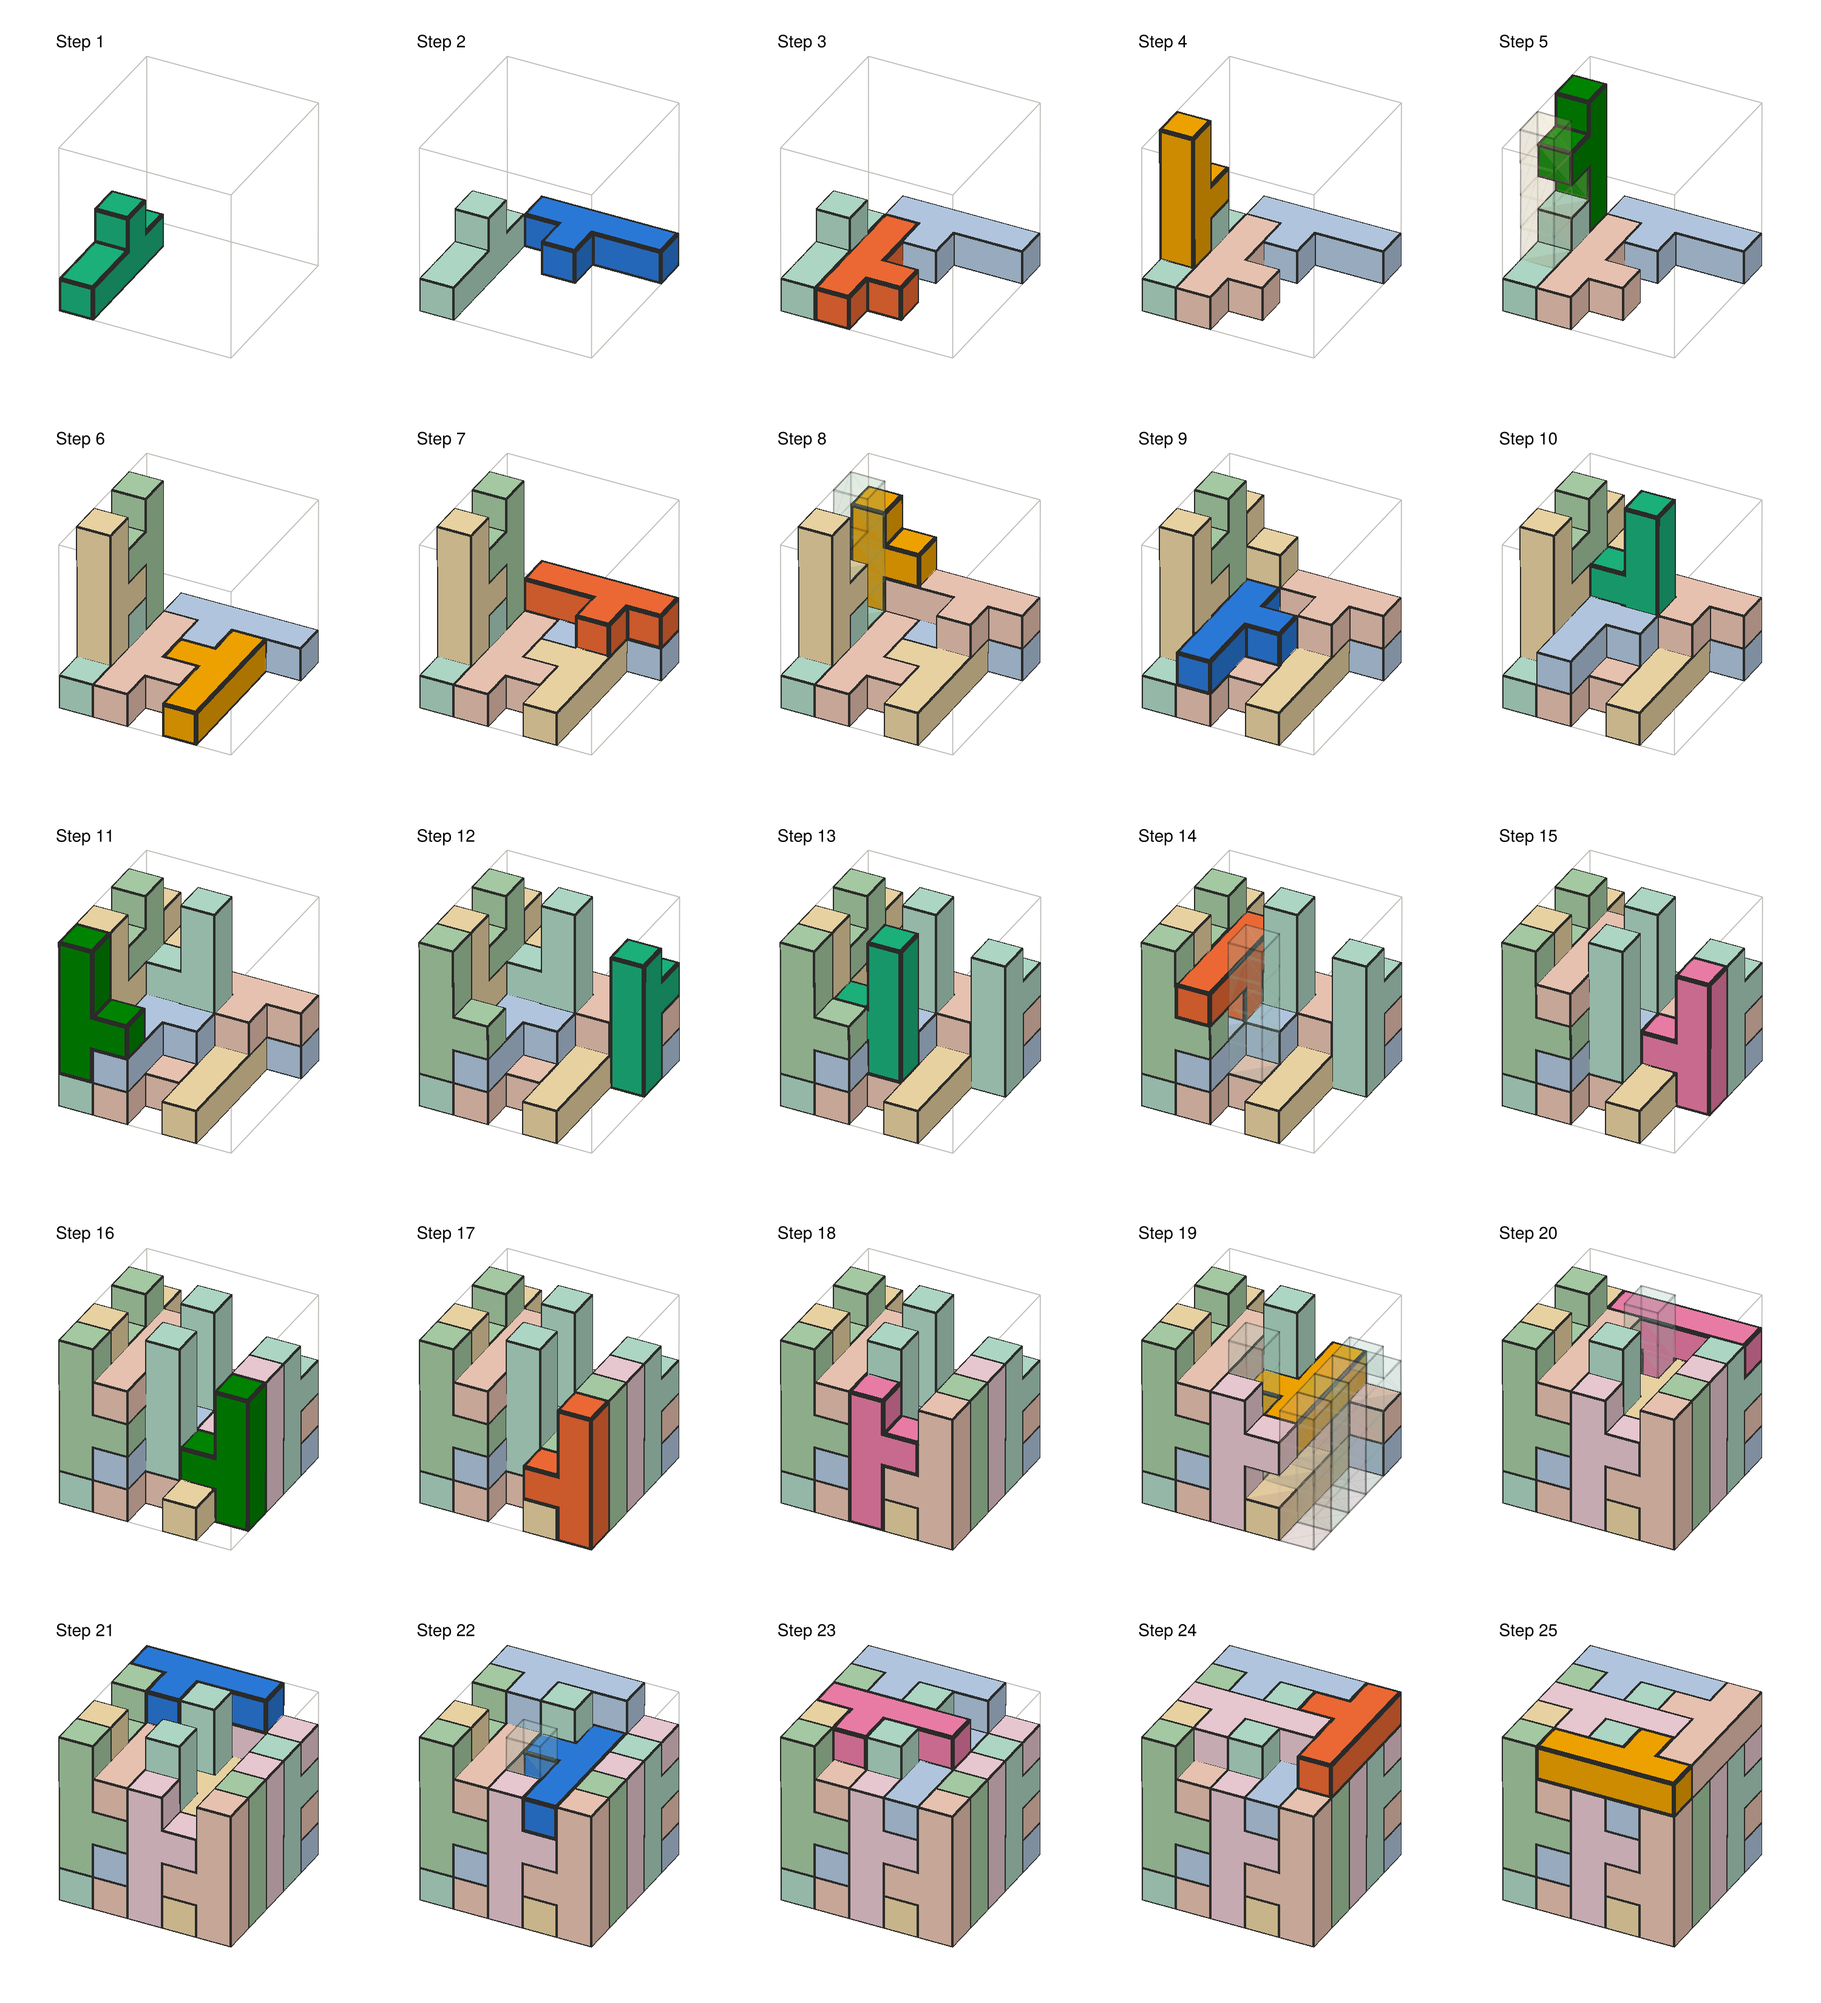
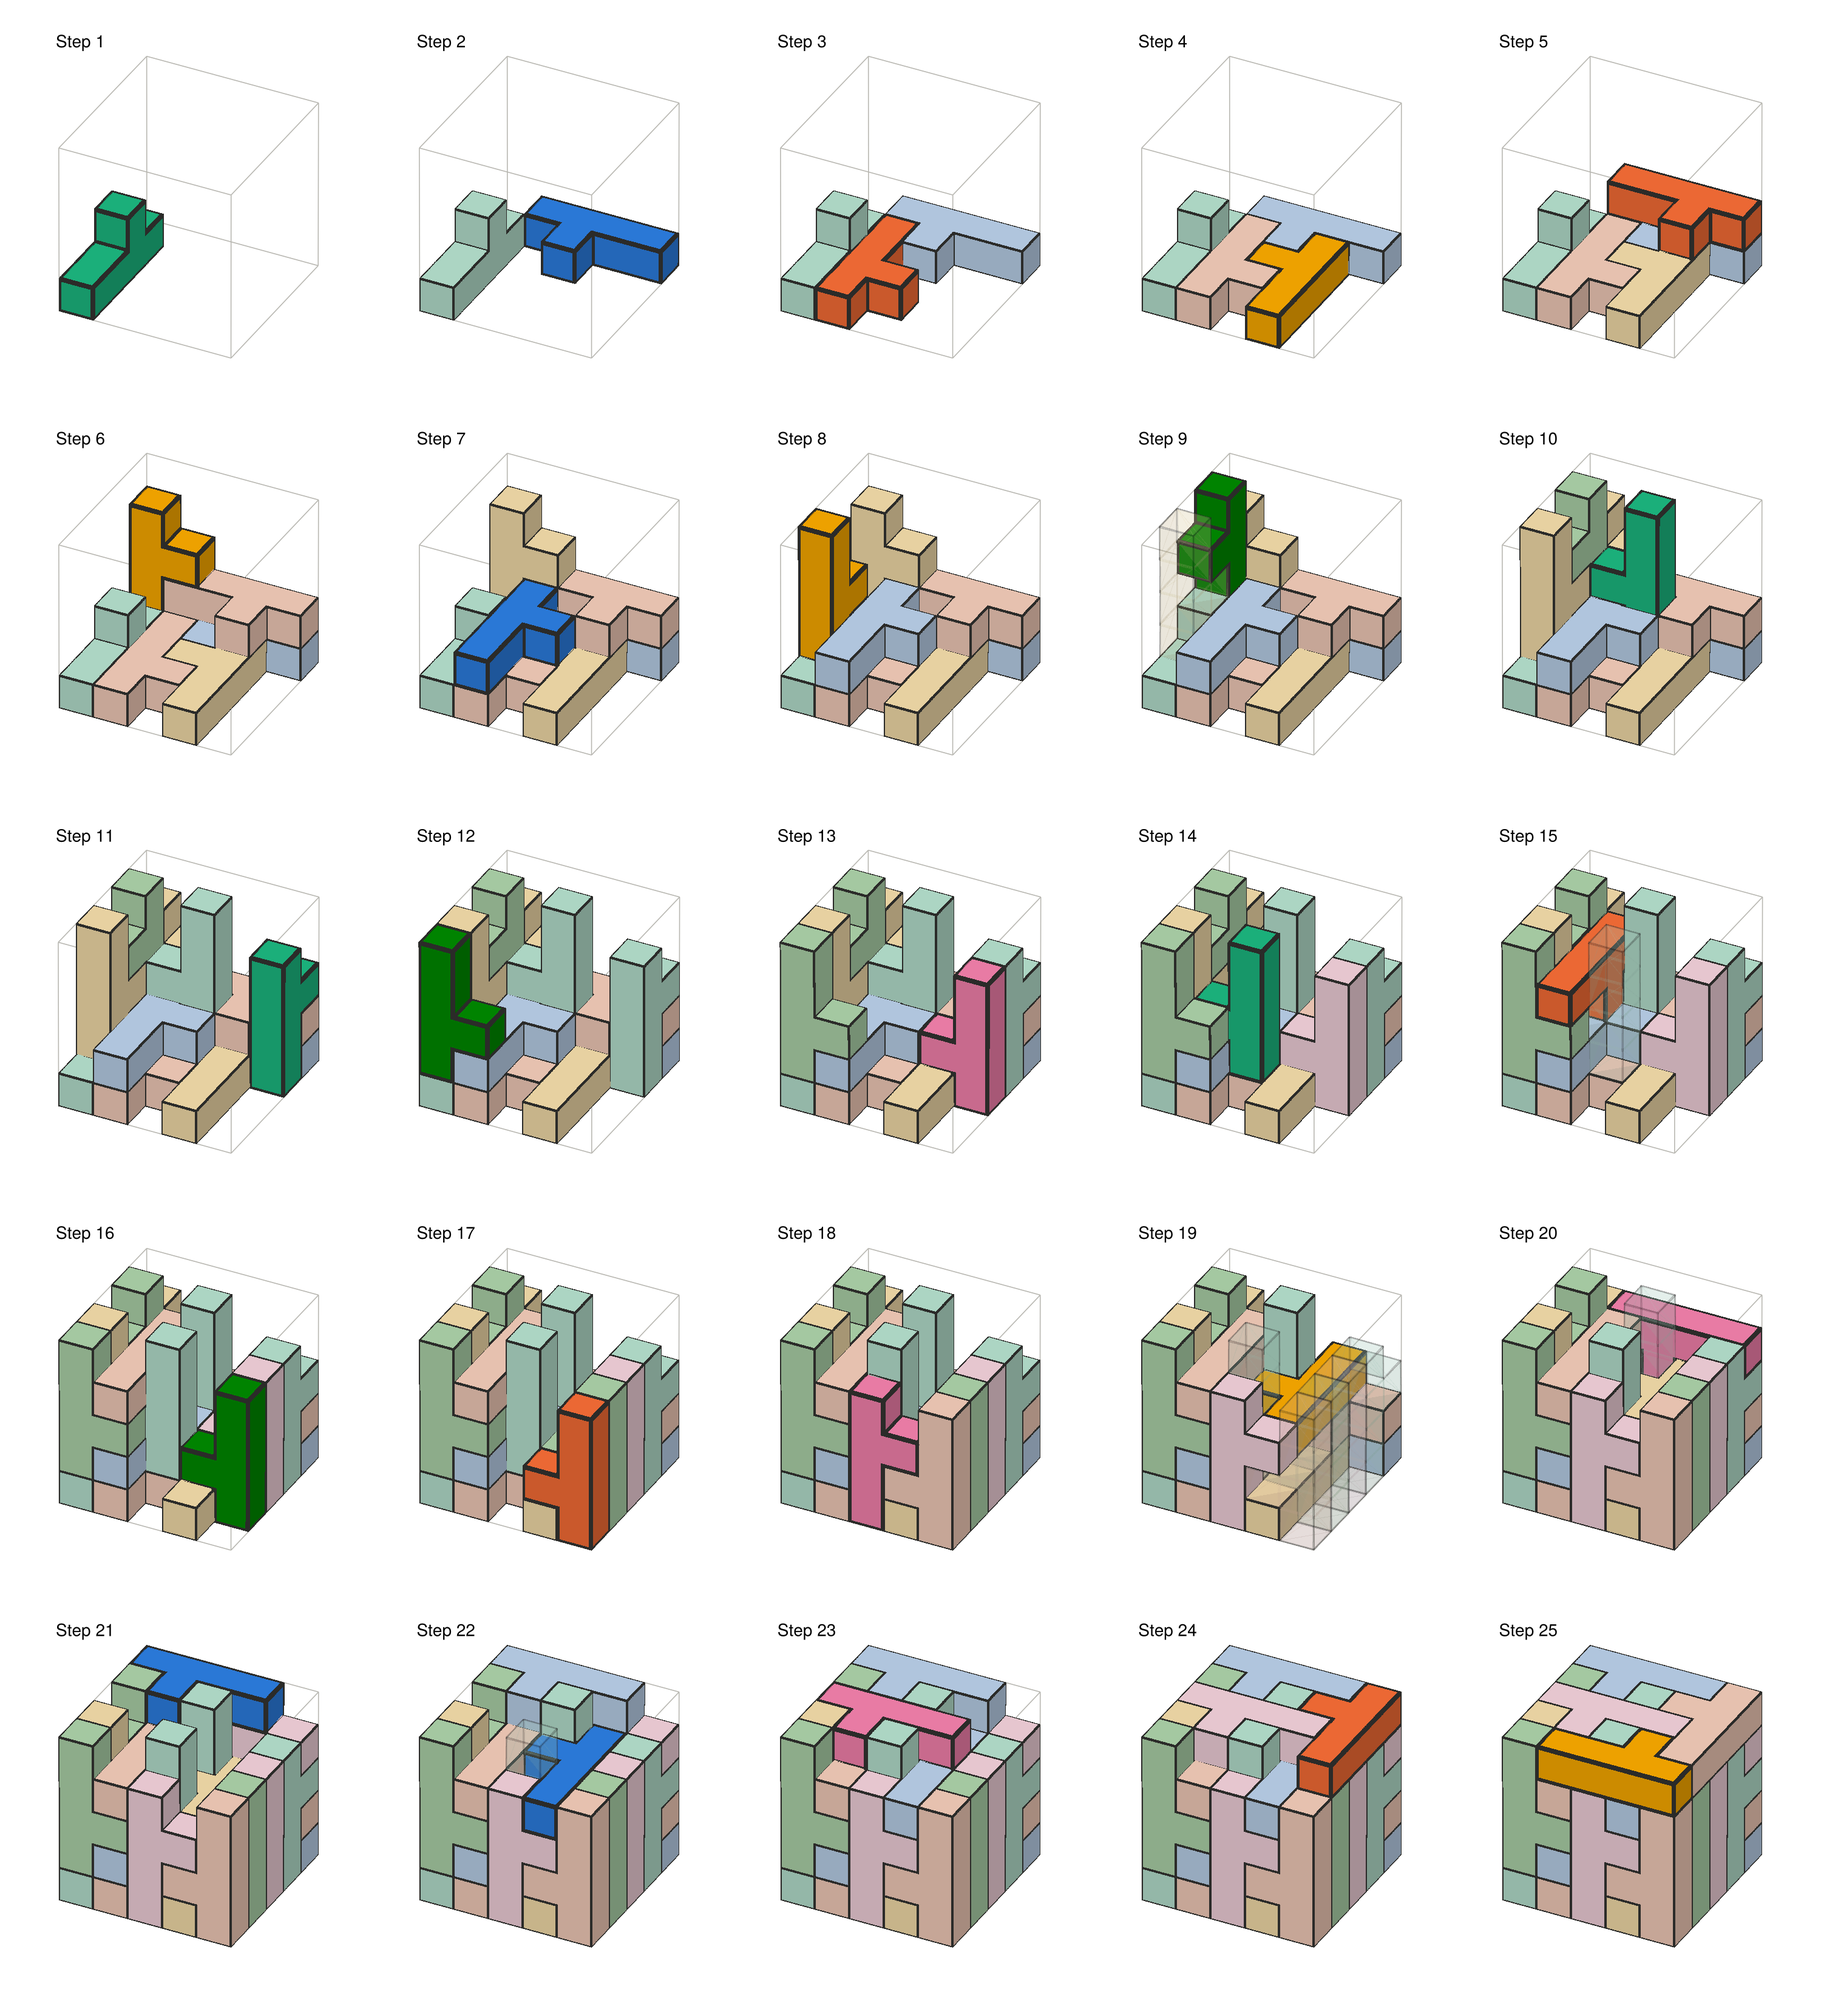
Turn reflections off by default; fill lower back layers before towers
Pieces are no longer mirrored unless reflections = true, in any
dimension. For viewer-ordered assembly, a piece's lowest level now
counts against its back/left position (weight 0.6, tuned on 5x5x5
Y-pentacube solutions: fewer hidden steps than before and low back
pieces ahead of towers).

diff --git a/README.md b/README.md
@@ -72,8 +72,9 @@ Puzzle(target, [pieceA => 1, pieceB => 3, pieceC => 0:2]; reflections = false)
 
 A count is exact (`3`) or a range (`0:2`, for spare pieces). Copies of a piece
 are indistinguishable, so permuting them never yields a "new" solution.
-`reflections` says whether pieces may be mirrored; it defaults to `true` in 2D
-(a tile can be turned over) and `false` otherwise.
+`reflections` says whether pieces may be mirrored. It is off by default; turn
+it on for flat tiles that may be turned over, e.g. the classic pentomino
+puzzles: `Puzzle(box(10, 6), [s => 1 for s in pentominoes()]; reflections = true)`.
 
 The library has `pentominoes()` and `soma()`.
 
